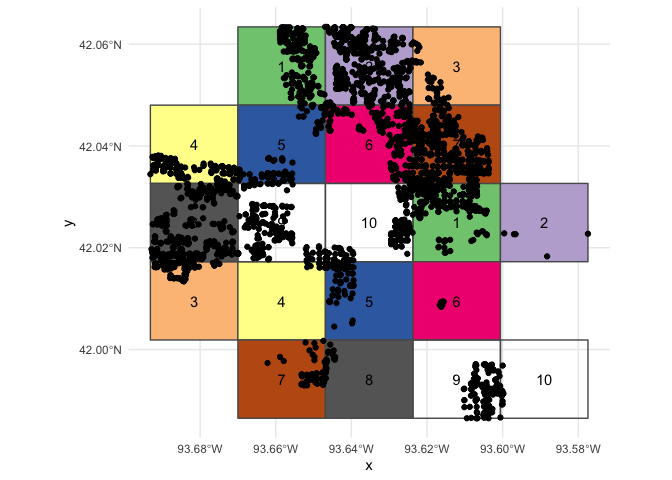
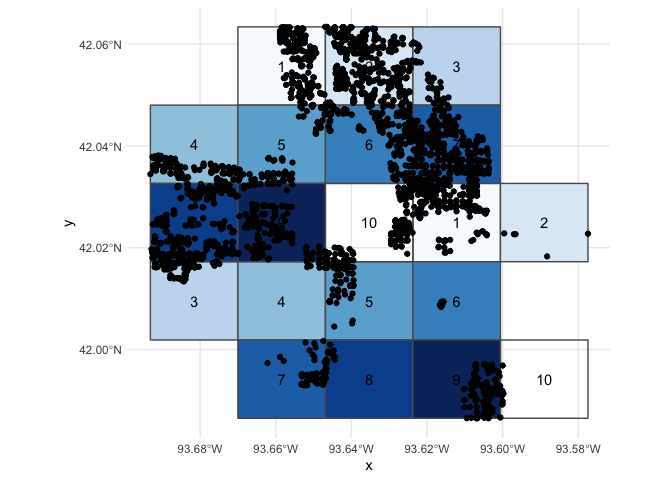
update readme

Changed region(s): [[0.2188, 0.0312, 0.875, 0.875]]

diff --git a/README.md b/README.md
@@ -124,6 +124,7 @@ walk(folds_kmedoids$splits, plot_splits)
 ``` r
 block_folds <- spatial_block_cv(ames, coords = c(Longitude, Latitude), 
                  allocation = "systematic", 
+                 crs = 4269, 
                  save_blocks = TRUE)
 
 block_folds
@@ -149,12 +150,8 @@ attr(block_folds, "blocks") |>
   geom_sf(aes(fill = folds), show.legend = FALSE) + 
   geom_sf_text(aes(label = folds)) + 
   geom_sf(data = sf::st_as_sf(ames, coords = c("Longitude", "Latitude"),
-                              crs = 4326), color = "black", fill = "white") + 
-  scale_fill_brewer(type = "qual") 
-#> Warning in st_point_on_surface.sfc(sf::st_zm(x)): st_point_on_surface may not
-#> give correct results for longitude/latitude data
-#> Warning in RColorBrewer::brewer.pal(n, pal): n too large, allowed maximum for palette Accent is 8
-#> Returning the palette you asked for with that many colors
+                              crs = 4269)) + 
+  scale_fill_brewer() 
 ```
 
 <img src="man/figures/README-unnamed-chunk-6-1.png" width="100%" />
